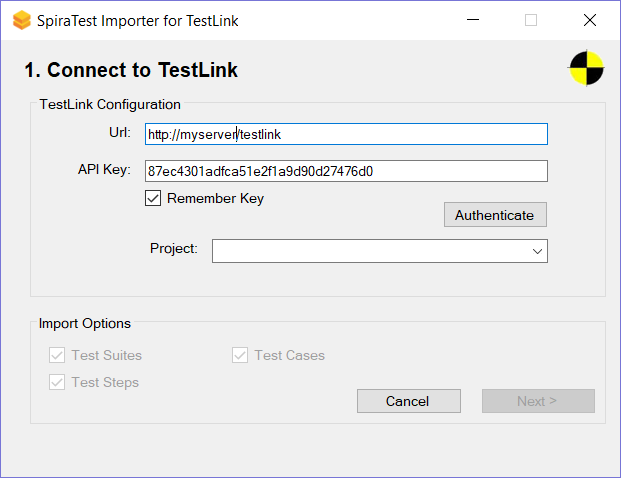
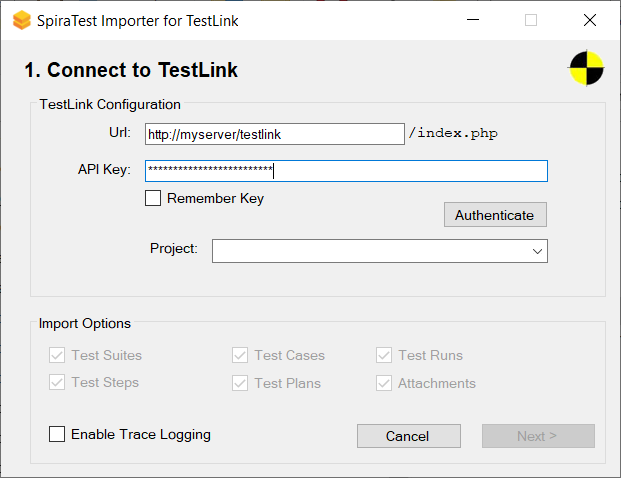
update testlink docs

diff --git a/docs/Migration-and-Integration/Migrating-from-TestLink.md b/docs/Migration-and-Integration/Migrating-from-TestLink.md
@@ -28,13 +28,13 @@ The first thing you need to do is to enter the URL for the instance of TestLink 
 
 ![](img/Migrating_from_TestLink_82.png)
 
-Once you have entered this information, click the <Authenticate\> button and the list of projects will be populated. Select TestLink project that you want to ***import from*** then click the <Next\> button to move to the next page in the import wizard:
+Once you have entered this information, click the `Authenticate` button and the list of projects will be populated. Select TestLink project that you want to ***import from*** then click the `Next` button to move to the next page in the import wizard:
 
 ![](img/Migrating_from_TestLink_83.png)
 
-This page allows you to enter the URL, user name and password that you want to use to access the instance of SpiraTest that you want to ***import to*** and click <Login\>. Typically, the URL is of the form (https://xxxx.spiraservice.net). The version of the importer being used must be compatible with the version of SpiraTest you're importing into; if not you will receive an error message.
+This page allows you to enter the URL, user name and password that you want to use to access the instance of SpiraTest that you want to ***import to*** and click `Login`. Typically, the URL is of the form (https://xxxx.spiraservice.net). The version of the importer being used must be compatible with the version of SpiraTest you're importing into; if not you will receive an error message.
 
-Assuming that the login was successful, click the <Start Import\> button to actually begin the process of importing the various artifacts from TestLink into SpiraTest. Note that the importer will automatically create a new project in SpiraTest to hold all the artifacts with the same name as that used in TestLink.
+Assuming that the login was successful, click the `Start Import` button to actually begin the process of importing the various artifacts from TestLink into SpiraTest. Note that the importer will automatically create a new project in SpiraTest to hold all the artifacts with the same name as that used in TestLink.
 
  ![](img/Migrating_from_TestLink_84.png)  
 
@@ -45,6 +45,9 @@ The migration tool will import the following artifacts from TestLink:
 - The project name and description
 - Test suites
 - Test cases with their steps (if defined)
+- Test plans
+- Test runs
+- Test case attachments
 
 For example, the following TestLink project:
 
@@ -55,4 +58,7 @@ Now looks like this in SpiraTest (v5.4):
 ![](img/Migrating_from_TestLink_86.png)
 
 *Should the import fail for any reason, there will be a log file created on the Desktop of the person doing the import. The filename is usually:
-**Spira\_TestLink\_Import.log**.*
+
+`Spira_TestLink_Import_XXXXXX_yyyyMMddhhmmss.log`
+
+where the 'XXXXX' is the ID of the project in TestLink.
